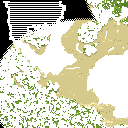
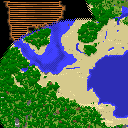
woooo

diff --git a/main.go b/main.go
@@ -19,13 +19,11 @@ import (
 // https://minecraft.wiki/w/Map_item_format
 
 func main() {
-	// Step 1: Read the file
 	data, err := os.ReadFile("map_0.dat")
 	if err != nil {
 		log.Fatalf("Failed to read file: %v", err)
 	}
 
-	// Step 2: Decompress the gzip-compressed data
 	gr, err := gzip.NewReader(bytes.NewReader(data))
 	if err != nil {
 		log.Fatalf("Failed to create gzip reader: %v", err)
@@ -37,66 +35,62 @@ func main() {
 		log.Fatalf("Failed to decompress data: %v", err)
 	}
 
-	// Step 3: Decode the NBT data
 	var mapData MapData
 	if err := nbt.Unmarshal(decompressedData, &mapData); err != nil {
 		log.Fatalf("Failed to decode NBT data: %v", err)
 	}
 
-	fmt.Println(mapData)
-
 	colorMap := map[int][]int{
-		0:  {0, 0, 0, 0},
-		1:  {0, 0, 0, 0},
-		2:  {0, 0, 0, 0},
-		3:  {0, 0, 0, 0},
-		4:  {89, 125, 39, 255},
-		5:  {109, 153, 48, 255},
-		6:  {127, 178, 56, 255},
-		7:  {67, 94, 29, 255},
-		8:  {174, 164, 115, 255},
-		9:  {213, 201, 140, 255},
-		10: {247, 233, 163, 255},
-		11: {130, 123, 86, 255},
-		12: {140, 140, 140, 255},
-		13: {171, 171, 171, 255},
-		14: {199, 199, 199, 255},
-		15: {105, 105, 105, 255},
-		16: {180, 0, 0, 255},
-		17: {220, 0, 0, 255},
-		18: {255, 0, 0, 255},
-		19: {135, 0, 0, 255},
-		20: {112, 112, 180, 255},
-		21: {138, 138, 220, 255},
-		22: {160, 160, 255, 255},
-		23: {84, 84, 135, 255},
-		24: {117, 117, 117, 255},
-		25: {144, 144, 144, 255},
-		26: {167, 167, 167, 255},
-		27: {88, 88, 88, 255},
-		28: {0, 87, 0, 255},
-		29: {0, 106, 0, 255},
-		30: {0, 124, 0, 255},
-		31: {0, 65, 0, 255},
-		32: {180, 180, 180, 255},
-		33: {220, 220, 220, 255},
-		34: {255, 255, 255, 255},
-		35: {135, 135, 135, 255},
-		36: {115, 118, 129, 255},
-		37: {141, 144, 158, 255},
-		38: {164, 168, 184, 255},
-		39: {86, 88, 97, 255},
-		40: {106, 76, 54, 255},
-		41: {130, 94, 66, 255},
-		42: {151, 109, 77, 255},
-		43: {79, 57, 40, 255},
-		44: {79, 79, 79, 255},
-		45: {96, 96, 96, 255},
-		46: {112, 112, 112, 255},
-		47: {59, 59, 59, 255},
-		48: {45, 45, 180, 255},
-		49: {55, 55, 220, 255},
-
+		0:   {0, 0, 0, 0},
+		1:   {0, 0, 0, 0},
+		2:   {0, 0, 0, 0},
+		3:   {0, 0, 0, 0},
+		4:   {89, 125, 39, 255},
+		5:   {109, 153, 48, 255},
+		6:   {127, 178, 56, 255},
+		7:   {67, 94, 29, 255},
+		8:   {174, 164, 115, 255},
+		9:   {213, 201, 140, 255},
+		10:  {247, 233, 163, 255},
+		11:  {130, 123, 86, 255},
+		12:  {140, 140, 140, 255},
+		13:  {171, 171, 171, 255},
+		14:  {199, 199, 199, 255},
+		15:  {105, 105, 105, 255},
+		16:  {180, 0, 0, 255},
+		17:  {220, 0, 0, 255},
+		18:  {255, 0, 0, 255},
+		19:  {135, 0, 0, 255},
+		20:  {112, 112, 180, 255},
+		21:  {138, 138, 220, 255},
+		22:  {160, 160, 255, 255},
+		23:  {84, 84, 135, 255},
+		24:  {117, 117, 117, 255},
+		25:  {144, 144, 144, 255},
+		26:  {167, 167, 167, 255},
+		27:  {88, 88, 88, 255},
+		28:  {0, 87, 0, 255},
+		29:  {0, 106, 0, 255},
+		30:  {0, 124, 0, 255},
+		31:  {0, 65, 0, 255},
+		32:  {180, 180, 180, 255},
+		33:  {220, 220, 220, 255},
+		34:  {255, 255, 255, 255},
+		35:  {135, 135, 135, 255},
+		36:  {115, 118, 129, 255},
+		37:  {141, 144, 158, 255},
+		38:  {164, 168, 184, 255},
+		39:  {86, 88, 97, 255},
+		40:  {106, 76, 54, 255},
+		41:  {130, 94, 66, 255},
+		42:  {151, 109, 77, 255},
+		43:  {79, 57, 40, 255},
+		44:  {79, 79, 79, 255},
+		45:  {96, 96, 96, 255},
+		46:  {112, 112, 112, 255},
+		47:  {59, 59, 59, 255},
+		48:  {45, 45, 180, 255},
+		49:  {55, 55, 220, 255},
 		50:  {64, 64, 255, 255},
 		51:  {33, 33, 135, 255},
 		52:  {100, 84, 50, 255},
@@ -148,142 +142,136 @@ func main() {
 		98:  {127, 63, 178, 255},
 		99:  {67, 33, 94, 255},
 		100: {36, 53, 125, 255},
-		101: {0, 0, 0, 255},
-		102: {0, 0, 0, 255},
-		103: {0, 0, 0, 255},
-		104: {0, 0, 0, 255},
-		105: {0, 0, 0, 255},
-		106: {0, 0, 0, 255},
-		107: {0, 0, 0, 255},
-		108: {0, 0, 0, 255},
-		109: {0, 0, 0, 255},
-		110: {0, 0, 0, 255},
-		111: {0, 0, 0, 255},
-		112: {0, 0, 0, 255},
-		113: {0, 0, 0, 255},
-		114: {0, 0, 0, 255},
-		115: {0, 0, 0, 255},
-		116: {0, 0, 0, 255},
-		117: {0, 0, 0, 255},
-		118: {0, 0, 0, 255},
-		119: {0, 0, 0, 255},
-		120: {0, 0, 0, 255},
-		121: {0, 0, 0, 255},
-		122: {0, 0, 0, 255},
-		123: {0, 0, 0, 255},
-		124: {0, 0, 0, 255},
-		125: {0, 0, 0, 255},
-		126: {0, 0, 0, 255},
-		127: {0, 0, 0, 255},
-		128: {0, 0, 0, 255},
-		129: {0, 0, 0, 255},
-		130: {0, 0, 0, 255},
-		131: {0, 0, 0, 255},
-		132: {0, 0, 0, 255},
-		133: {0, 0, 0, 255},
-		134: {0, 0, 0, 255},
-		135: {0, 0, 0, 255},
-		136: {0, 0, 0, 255},
-		137: {0, 0, 0, 255},
-		138: {0, 0, 0, 255},
-		139: {0, 0, 0, 255},
-		140: {0, 0, 0, 255},
-		141: {0, 0, 0, 255},
-		142: {0, 0, 0, 255},
-		143: {0, 0, 0, 255},
-		144: {0, 0, 0, 255},
-		145: {0, 0, 0, 255},
-		146: {0, 0, 0, 255},
-		147: {0, 0, 0, 255},
-		148: {0, 0, 0, 255},
-		149: {0, 0, 0, 255},
-		150: {0, 0, 0, 255},
-		151: {0, 0, 0, 255},
-		152: {0, 0, 0, 255},
-		153: {0, 0, 0, 255},
-		154: {0, 0, 0, 255},
-		155: {0, 0, 0, 255},
-		156: {0, 0, 0, 255},
-		157: {0, 0, 0, 255},
-		158: {0, 0, 0, 255},
-		159: {0, 0, 0, 255},
-		160: {0, 0, 0, 255},
-		161: {0, 0, 0, 255},
-		162: {0, 0, 0, 255},
-		163: {0, 0, 0, 255},
-		164: {0, 0, 0, 255},
-		165: {0, 0, 0, 255},
-		166: {0, 0, 0, 255},
-		167: {0, 0, 0, 255},
-		168: {0, 0, 0, 255},
-		169: {0, 0, 0, 255},
-		170: {0, 0, 0, 255},
-		171: {0, 0, 0, 255},
-		172: {0, 0, 0, 255},
-		173: {0, 0, 0, 255},
-		174: {0, 0, 0, 255},
-		175: {0, 0, 0, 255},
-		176: {0, 0, 0, 255},
-		177: {0, 0, 0, 255},
-		178: {0, 0, 0, 255},
-		179: {0, 0, 0, 255},
-		180: {0, 0, 0, 255},
-		181: {0, 0, 0, 255},
-		182: {0, 0, 0, 255},
-		183: {0, 0, 0, 255},
-		184: {0, 0, 0, 255},
-		185: {0, 0, 0, 255},
-		186: {0, 0, 0, 255},
-		187: {0, 0, 0, 255},
-		188: {0, 0, 0, 255},
-		189: {0, 0, 0, 255},
-		190: {0, 0, 0, 255},
-		191: {0, 0, 0, 255},
-		192: {0, 0, 0, 255},
-		193: {0, 0, 0, 255},
-		194: {0, 0, 0, 255},
-		195: {0, 0, 0, 255},
-		196: {0, 0, 0, 255},
-		197: {0, 0, 0, 255},
-		198: {0, 0, 0, 255},
-		199: {0, 0, 0, 255},
-		200: {0, 0, 0, 255},
-		201: {0, 0, 0, 255},
-		202: {0, 0, 0, 255},
-		203: {0, 0, 0, 255},
-		204: {0, 0, 0, 255},
-		205: {0, 0, 0, 255},
-		206: {0, 0, 0, 255},
-		207: {0, 0, 0, 255},
+		101: {44, 65, 153, 255},
+		102: {51, 76, 178, 255},
+		103: {27, 40, 94, 255},
+		104: {72, 53, 36, 255},
+		105: {88, 65, 44, 255},
+		106: {102, 76, 51, 255},
+		107: {54, 40, 27, 255},
+		108: {72, 89, 36, 255},
+		109: {88, 109, 44, 255},
+		110: {102, 127, 51, 255},
+		111: {54, 67, 27, 255},
+		112: {108, 36, 36, 255},
+		113: {132, 44, 44, 255},
+		114: {153, 51, 51, 255},
+		115: {81, 27, 27, 255},
+		116: {17, 17, 17, 255},
+		117: {21, 21, 21, 255},
+		118: {25, 25, 25, 255},
+		119: {13, 13, 13, 255},
+		120: {176, 168, 54, 255},
+		121: {215, 205, 66, 255},
+		122: {250, 238, 77, 255},
+		123: {132, 126, 40, 255},
+		124: {64, 154, 150, 255},
+		125: {79, 188, 183, 255},
+		126: {92, 219, 213, 255},
+		127: {48, 115, 112, 255},
+		128: {52, 90, 180, 255},
+		129: {63, 110, 220, 255},
+		130: {74, 128, 255, 255},
+		131: {39, 67, 135, 255},
+		132: {0, 153, 40, 255},
+		133: {0, 187, 50, 255},
+		134: {0, 217, 58, 255},
+		135: {0, 114, 30, 255},
+		136: {91, 60, 34, 255},
+		137: {111, 74, 42, 255},
+		138: {129, 86, 49, 255},
+		139: {68, 45, 25, 255},
+		140: {79, 1, 0, 255},
+		141: {96, 1, 0, 255},
+		142: {112, 2, 0, 255},
+		143: {59, 1, 0, 255},
+		144: {147, 124, 113, 255},
+		145: {180, 152, 138, 255},
+		146: {209, 177, 161, 255},
+		147: {110, 93, 85, 255},
+		148: {112, 57, 25, 255},
+		149: {137, 70, 31, 255},
+		150: {159, 82, 36, 255},
+		151: {84, 43, 19, 255},
+		152: {105, 61, 76, 255},
+		153: {128, 75, 93, 255},
+		154: {149, 87, 108, 255},
+		155: {78, 46, 57, 255},
+		156: {79, 76, 97, 255},
+		157: {96, 93, 119, 255},
+		158: {112, 108, 138, 255},
+		159: {59, 57, 73, 255},
+		160: {131, 93, 25, 255},
+		161: {160, 114, 31, 255},
+		162: {186, 133, 36, 255},
+		163: {98, 70, 19, 255},
+		164: {72, 82, 37, 255},
+		165: {88, 100, 45, 255},
+		166: {103, 117, 53, 255},
+		167: {54, 61, 28, 255},
+		168: {112, 54, 55, 255},
+		169: {138, 66, 67, 255},
+		170: {160, 77, 78, 255},
+		171: {84, 40, 41, 255},
+		172: {40, 28, 24, 255},
+		173: {49, 35, 30, 255},
+		174: {57, 41, 35, 255},
+		175: {30, 21, 18, 255},
+		176: {95, 75, 69, 255},
+		177: {116, 92, 84, 255},
+		178: {135, 107, 98, 255},
+		179: {71, 56, 51, 255},
+		180: {61, 64, 64, 255},
+		181: {75, 79, 79, 255},
+		182: {87, 92, 92, 255},
+		183: {46, 48, 48, 255},
+		184: {86, 51, 62, 255},
+		185: {105, 62, 75, 255},
+		186: {122, 73, 88, 255},
+		187: {64, 38, 46, 255},
+		188: {53, 43, 64, 255},
+		189: {65, 53, 79, 255},
+		190: {76, 62, 92, 255},
+		191: {40, 32, 48, 255},
+		192: {53, 35, 24, 255},
+		193: {65, 43, 30, 255},
+		194: {76, 50, 35, 255},
+		195: {40, 26, 18, 255},
+		196: {53, 57, 29, 255},
+		197: {65, 70, 36, 255},
+		198: {76, 82, 42, 255},
+		199: {40, 43, 22, 255},
+		200: {100, 42, 32, 255},
+		201: {122, 51, 39, 255},
+		202: {142, 60, 46, 255},
+		203: {75, 31, 24, 255},
+		204: {26, 15, 11, 255},
+		205: {31, 18, 13, 255},
+		206: {37, 22, 16, 255},
+		207: {19, 11, 8, 255},
 	}
 
-	// Define the dimensions of the image based on the size of the Colors array
-	// For simplicity, let's assume the image is square and its size is the square root of the length of the Colors array
 	imageSize := int(math.Sqrt(float64(len(mapData.Data.Colors))))
 	img := image.NewRGBA(image.Rect(0, 0, imageSize, imageSize))
 
-	width := int(math.Sqrt(float64(len(mapData.Data.Colors)))) // Assuming the map is square
-	height := width                                            // Assuming the map is square
+	width := int(math.Sqrt(float64(len(mapData.Data.Colors))))
+	height := width
 
 	for y := 0; y < height; y++ {
 		for x := 0; x < width; x++ {
-			// Calculate the index in the Colors array
 			index := x + y*width
 			colorIndex := mapData.Data.Colors[index]
 
-			// Look up the RGB values in the colorMap
 			rgb, ok := colorMap[int(colorIndex)]
 			if !ok {
 				log.Printf("Color index %d not found in colorMap", colorIndex)
 				continue
 			}
 
-			// Set the pixel color in the image
 			img.Set(x, y, color.RGBA{R: uint8(rgb[0]), G: uint8(rgb[1]), B: uint8(rgb[2]), A: 255})
 		}
 	}
 
-	// Save the image to a file
 	file, err := os.Create("output.png")
 	if err != nil {
 		log.Fatalf("Failed to create image file: %v", err)
